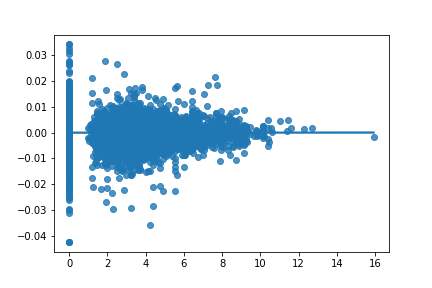
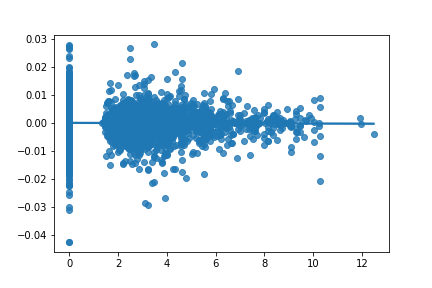
lots of diagrams

diff --git a/src/processing/headline_to_emotion_with_freq.py b/src/processing/headline_to_emotion_with_freq.py
@@ -12,7 +12,7 @@ from nltk.corpus import words
 from tqdm import tqdm
 tqdm.pandas()
 
-total_freq = 588090082941
+total_freq = 5880900
 
 lemmatizer = WordNetLemmatizer()
 frequency = pd.read_csv('data/processed/unigram_lemmatized_freq.csv',index_col=0)
@@ -23,7 +23,7 @@ lexicon = lexicon.set_index('English (en)') #now can find word by indexing
 words = words.words()
 lexicon_words = set(lexicon.index)
 
-packages = pd.read_csv('data/raw/packages.csv')
+packages = pd.read_csv('data/raw/packages.csv').head(10000)
 
 processed = pd.DataFrame(columns=['test_id', 'test_mean_impressions','test_mean_clicks','emotive_word_count','token_word_count','impressions','clicks'])
 
@@ -43,7 +43,7 @@ def freq(word):
         return 1
 
 def to_emotion_profile(x):
-    return np.sum([np.array(lexicon.loc[word])*(np.log(frequency.loc[word].values[0]+1)) for word in x],axis=0) 
+    return np.sum([np.array(lexicon.loc[word])*-(np.log(frequency.loc[word].values[0]+1)-15) for word in x],axis=0) 
 
 processed['test_id'] = packages['test_id'].astype(str)
 processed['impressions'] = packages['impressions']
